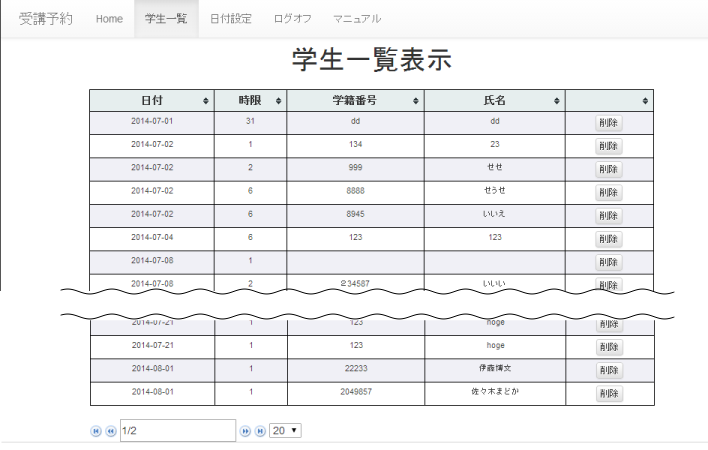
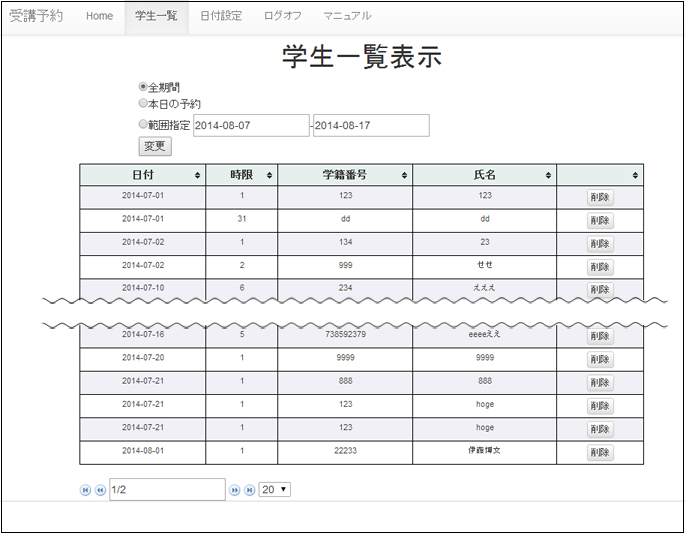
Add the Date Range manyuale.

Changed region(s): [[0.0, 0.1556, 1.0, 1.0], [0.0, 0.0, 1.0, 0.1556]]

diff --git a/docs/admin/_build/html/searchindex.js b/docs/admin/_build/html/searchindex.js
@@ -1,1 +1,1 @@
-Search.setIndex({envversion:42,terms:{"\u4e00\u5ea6\u30af\u30ea\u30c3\u30af\u3059\u308b\u3068":1,"\u306e\u30dc\u30bf\u30f3\u3092\u30af\u30ea\u30c3\u30af\u3059\u308b\u3053\u3068\u3067\u767b\u9332\u3055\u308c\u3066\u3044\u308b\u4e88\u7d04\u3092\u524a\u9664\u3059\u308b\u3053\u3068\u304c\u3067\u304d\u307e\u3059":1,modul:0,admin_01:[],admin_02:[],"\u3092\u30af\u30ea\u30c3\u30af\u3059\u308b\u3053\u3068\u3067":1,"\u4e0b\u4e09\u89d2\u3092\u30af\u30ea\u30c3\u30af\u3059\u308b\u3053\u3068\u3067":1,"\u30ed\u30b0\u30a4\u30f3":1,"\u3068\u3044\u3046\u30e1\u30c3\u30bb\u30fc\u30b8\u304c\u8868\u793a\u3055\u308c\u308b\u3068\u524a\u9664\u304c\u5b8c\u4e86\u3067\u3059":1,index:0,"\u65e5\u4ed8\u8a2d\u5b9a":1,"\u5b66\u751f\u306e\u540d\u524d\u306e\u6a2a\u306b\u3042\u308b":1,content:0,"\u8868\u306e\u4e0b\u306b\u3042\u308b\u30dc\u30bf\u30f3\u3092\u30af\u30ea\u30c3\u30af\u3059\u308b\u3053\u3068\u3067\u30da\u30fc\u30b8\u306e\u79fb\u52d5\u304c\u3067\u304d\u307e\u3059":1,"\u524a\u9664\u78ba\u8a8d":1,"\u5b66\u751f\u4e00\u89a7\u306e\u753b\u9762\u306b\u623b\u308a\u307e\u3059":1,"1\u30da\u30fc\u30b8\u3042\u305f\u308a\u306b\u8868\u793a\u3059\u308b\u4e88\u7d04\u6570\u3092\u5909\u66f4\u3059\u308b\u3053\u3068\u304c\u3067\u304d\u307e\u3059":[],"\u524a\u9664":1,"\u3092\u5165\u308c\u66ff\u3048\u308b\u3053\u3068\u304c\u3067\u304d\u307e\u3059":1,"\u4e88\u7d04\u524a\u9664":1,admin_day_03:[],"\u305d\u306e\u305d\u306e\u9805\u76ee\u306e\u30c7\u30fc\u30bf\u3067\u4e26\u3073\u63db\u3048\u3059\u308b\u3053\u3068\u304c\u3067\u304d\u307e\u3059":1,"\u304c\u4ed8\u3044\u3066\u3044\u308b\u65e5\u306f\u53d7\u8b1b\u751f\u306e\u4e88\u7d04\u4e0d\u53ef\u306b\u306a\u3063\u3066\u3044\u307e\u3059":1,"\u30d1\u30b9\u30ef\u30fc\u30c9\u3092\u5165\u529b\u3057\u3066":1,"\u30dc\u30bf\u30f3\u3092\u30af\u30ea\u30c3\u30af\u3057\u307e\u3059":1,"\u7ba1\u7406\u8005\u306e\u30ed\u30b0\u30a4\u30f3\u540d\u3068":1,"\u5b66\u751f\u4e00\u89a7\u8868\u793a":1,imag:[],admin_day_02:[],search:0,"\u3082\u3046\u4e00\u5ea6\u30af\u30ea\u30c3\u30af\u3059\u308b\u3068\u964d\u9806\u306b\u4e26\u3073\u66ff\u3048\u307e\u3059":1,"\u5b66\u751f\u4e00\u89a7\u8868\u793a\u753b\u9762\u304c\u8868\u793a\u3055\u308c\u307e\u3059":1,"\u6607\u9806":1,"1\u30da\u30fc\u30b8\u3042\u305f\u308a\u306b\u8868\u793a\u3059\u308b\u4e88\u7d04\u6570\u309210\u304b\u308950\u307e\u5909\u66f4\u3059\u308b\u3053\u3068\u304c\u3067\u304d\u307e\u3059":1,"1\u30da\u30fc\u30b8\u3042\u305f\u308a\u306b\u8868\u793a\u3059\u308b\u4e88\u7d04\u657010\u304b\u308950\u307e\u3067\u3092\u5909\u66f4\u3059\u308b\u3053\u3068\u304c\u3067\u304d\u307e\u3059":[],"\u306e\u9805\u76ee\u3092\u5909\u66f4\u3059\u308b\u3053\u3068\u3067":1,"\u4e00\u89a7\u3078\u623b\u308b":1,"\u767b\u9332\u3055\u308c\u3066\u3044\u308b\u5b66\u751f\u306e\u4e88\u7d04\u3092\u30ad\u30e3\u30f3\u30bb\u30eb\u3059\u308b\u3053\u3068\u304c\u3067\u304d\u307e\u3059":1,png:[],"\u306e\u753b\u9762\u306b\u306a\u308a\u307e\u3059":1,"\u7ba1\u7406\u753b\u9762\u3078\u3092\u30af\u30ea\u30c3\u30af\u3059\u308b\u3068\u7ba1\u7406\u8005\u30ed\u30b0\u30a4\u30f3\u306e\u753b\u9762\u304c\u8868\u793a\u3055\u308c\u307e\u3059":1,"\u3092\u30af\u30ea\u30c3\u30af\u3057\u307e\u3059":1,"\u7ba1\u7406\u30ed\u30b0\u30a4\u30f3\u306e\u753b\u9762\u304c\u8868\u793a\u3055\u308c\u308b\u306e\u3067":1,admin_can_01:[],"\u6700\u521d\u306e\u72b6\u614b\u3067\u306f1\u30da\u30fc\u30b8\u3042\u305f\u308a20\u4ef6\u306e\u4e88\u7d04\u304c\u8868\u793a\u3055\u308c\u307e\u3059\u304c":1,"\u304c\u4ed8\u3044\u3066\u3044\u308b\u65e5\u306f\u53d7\u8b1b\u751f\u304c\u4e88\u7d04\u53ef\u80fd\u306b\u306a\u3063\u3066\u3044\u307e\u3059":1,"\u3053\u306e\u753b\u9762\u3067\u73fe\u5728\u306e\u4e88\u7d04\u306e\u4e00\u89a7\u304c\u78ba\u8a8d\u3067\u304d\u307e\u3059":1,"\u30dc\u30bf\u30f3\u3092\u30af\u30ea\u30c3\u30af\u3059\u308b\u3053\u3068\u3067":1,"\u306e\u753b\u9762\u3067":1,"\u305d\u308c\u305e\u308c\u306e\u9805\u76ee\u306e\u53f3\u306b\u3042\u308b\u5c0f\u3055\u306a\u4e0a\u4e09\u89d2":1,"\u30dc\u30bf\u30f3\u3092\u62bc\u3059\u3068":1,"\u524a\u9664\u3055\u308c\u307e\u3057\u305f":1,page:0},objtypes:{},objnames:{},filenames:["index","admin_manual"],titles:["Welcome to YOYAKU administration domcument&#8217;s documentation!","\u7ba1\u7406\u8005\u30de\u30cb\u30e5\u30a2\u30eb"],objects:{},titleterms:{yoyaku:0,"\u5b66\u751f\u306e\u30ad\u30e3\u30f3\u30bb\u30eb":1,document:0,welcom:0,administr:0,"\u30ed\u30b0\u30a4\u30f3\u65b9\u6cd5":1,"\u7ba1\u7406\u8005\u30de\u30cb\u30e5\u30a2\u30eb":1,domcument:0,indic:0,tabl:0,"\u65e5\u4ed8\u306e\u8a2d\u5b9a":1}})
+Search.setIndex({envversion:42,terms:{"\u4e00\u5ea6\u30af\u30ea\u30c3\u30af\u3059\u308b\u3068":1,"\u30dc\u30bf\u30f3\u3092\u30af\u30ea\u30c3\u30af\u3059\u308b\u3068\u672c\u65e5\u306e\u4e88\u7d04\u304c\u8868\u793a\u3055\u308c\u307e\u3059":1,"\u3092\u9078\u629e\u3057\u3066":1,"\u6307\u5b9a\u3055\u308c\u305f\u7bc4\u56f2\u306e\u4e88\u7d04\u3092\u8868\u793a\u3057\u307e\u3059":1,"\u306e\u30dc\u30bf\u30f3\u3092\u30af\u30ea\u30c3\u30af\u3059\u308b\u3053\u3068\u3067\u767b\u9332\u3055\u308c\u3066\u3044\u308b\u4e88\u7d04\u3092\u524a\u9664\u3059\u308b\u3053\u3068\u304c\u3067\u304d\u307e\u3059":1,modul:0,"\u672c\u65e5\u306e\u4e88\u7d04":1,"\u7ba1\u7406\u30ed\u30b0\u30a4\u30f3\u306e\u753b\u9762\u304c\u8868\u793a\u3055\u308c\u308b\u306e\u3067":1,"\u5b66\u751f\u306e\u540d\u524d\u306e\u6a2a\u306b\u3042\u308b":1,admin_01:[],admin_02:[],"\u3092\u30af\u30ea\u30c3\u30af\u3059\u308b\u3053\u3068\u3067":1,"\u4e0b\u4e09\u89d2\u3092\u30af\u30ea\u30c3\u30af\u3059\u308b\u3053\u3068\u3067":1,"4\u6841\u306e\u5e74":1,"\u306e\u4e88\u7d04\u304c\u8868\u793a\u3055\u308c\u307e\u3059":1,"\u30dc\u30bf\u30f3\u3092\u62bc\u3059\u3068":1,"2\u6841\u306e\u65e5":1,index:0,"\u3068\u3044\u3046\u30e1\u30c3\u30bb\u30fc\u30b8\u304c\u8868\u793a\u3055\u308c\u308b\u3068\u524a\u9664\u304c\u5b8c\u4e86\u3067\u3059":1,"\u5b66\u751f\u4e00\u89a7\u8868\u793a":1,"\u3068\u5165\u529b\u3057\u3066\u304f\u3060\u3055\u3044":1,"\u5909\u66f4":1,content:0,"\u8868\u306e\u4e0b\u306b\u3042\u308b\u30dc\u30bf\u30f3\u3092\u30af\u30ea\u30c3\u30af\u3059\u308b\u3053\u3068\u3067\u30da\u30fc\u30b8\u306e\u79fb\u52d5\u304c\u3067\u304d\u307e\u3059":1,"\u8868\u793a\u3059\u308b\u7bc4\u56f2\u306e\u65e5\u4ed8\u3092\u5165\u529b\u3059\u308b\u3053\u3068\u3067":1,"\u5b66\u751f\u4e00\u89a7\u306e\u753b\u9762\u306b\u623b\u308a\u307e\u3059":1,"1\u30da\u30fc\u30b8\u3042\u305f\u308a\u306b\u8868\u793a\u3059\u308b\u4e88\u7d04\u6570\u3092\u5909\u66f4\u3059\u308b\u3053\u3068\u304c\u3067\u304d\u307e\u3059":[],"\u524a\u9664":1,"\u3092\u5165\u308c\u66ff\u3048\u308b\u3053\u3068\u304c\u3067\u304d\u307e\u3059":1,"\u4e88\u7d04\u524a\u9664":1,imag:[],"\u305d\u306e\u305d\u306e\u9805\u76ee\u306e\u30c7\u30fc\u30bf\u3067\u4e26\u3073\u63db\u3048\u3059\u308b\u3053\u3068\u304c\u3067\u304d\u307e\u3059":1,"\u524a\u9664\u78ba\u8a8d":1,"\u304c\u4ed8\u3044\u3066\u3044\u308b\u65e5\u306f\u53d7\u8b1b\u751f\u306e\u4e88\u7d04\u4e0d\u53ef\u306b\u306a\u3063\u3066\u3044\u307e\u3059":1,"\u30d1\u30b9\u30ef\u30fc\u30c9\u3092\u5165\u529b\u3057\u3066":1,"\u30dc\u30bf\u30f3\u3092\u30af\u30ea\u30c3\u30af\u3057\u307e\u3059":1,"\u7ba1\u7406\u8005\u306e\u30ed\u30b0\u30a4\u30f3\u540d\u3068":1,"\u65e5\u4ed8\u8a2d\u5b9a":1,admin_day_03:[],admin_day_02:[],"2\u6841\u306e\u6708":1,"\u5b66\u751f\u4e00\u89a7\u8868\u793a\u753b\u9762\u304c\u8868\u793a\u3055\u308c\u307e\u3059":1,"\u6607\u9806":1,"1\u30da\u30fc\u30b8\u3042\u305f\u308a\u306b\u8868\u793a\u3059\u308b\u4e88\u7d04\u6570\u309210\u304b\u308950\u307e\u5909\u66f4\u3059\u308b\u3053\u3068\u304c\u3067\u304d\u307e\u3059":1,"1\u30da\u30fc\u30b8\u3042\u305f\u308a\u306b\u8868\u793a\u3059\u308b\u4e88\u7d04\u657010\u304b\u308950\u307e\u3067\u3092\u5909\u66f4\u3059\u308b\u3053\u3068\u304c\u3067\u304d\u307e\u3059":[],"\u306e\u9805\u76ee\u3092\u5909\u66f4\u3059\u308b\u3053\u3068\u3067":1,"\u4e00\u89a7\u3078\u623b\u308b":1,"\u767b\u9332\u3055\u308c\u3066\u3044\u308b\u5b66\u751f\u306e\u4e88\u7d04\u3092\u30ad\u30e3\u30f3\u30bb\u30eb\u3059\u308b\u3053\u3068\u304c\u3067\u304d\u307e\u3059":1,png:[],"\u306e\u753b\u9762\u306b\u306a\u308a\u307e\u3059":1,"\u7ba1\u7406\u753b\u9762\u3078\u3092\u30af\u30ea\u30c3\u30af\u3059\u308b\u3068\u7ba1\u7406\u8005\u30ed\u30b0\u30a4\u30f3\u306e\u753b\u9762\u304c\u8868\u793a\u3055\u308c\u307e\u3059":1,"\u3092\u30af\u30ea\u30c3\u30af\u3057\u307e\u3059":1,search:0,admin_can_01:[],"\u6700\u521d\u306e\u72b6\u614b\u3067\u306f1\u30da\u30fc\u30b8\u3042\u305f\u308a20\u4ef6\u306e\u4e88\u7d04\u304c\u8868\u793a\u3055\u308c\u307e\u3059\u304c":1,"\u7bc4\u56f2\u3092\u6307\u5b9a\u3059\u308b\u65e5\u4ed8\u306f":1,"\u3059\u308b\u5834\u5408\u306f\u65e5\u4ed8\u306f\u4e21\u65b9\u306b\u5165\u529b\u3057\u3066\u304f\u3060\u3055\u3044":1,"\u7bc4\u56f2\u6307\u5b9a":1,"\u304c\u4ed8\u3044\u3066\u3044\u308b\u65e5\u306f\u53d7\u8b1b\u751f\u304c\u4e88\u7d04\u53ef\u80fd\u306b\u306a\u3063\u3066\u3044\u307e\u3059":1,"\u3053\u306e\u753b\u9762\u3067\u73fe\u5728\u306e\u4e88\u7d04\u306e\u4e00\u89a7\u304c\u78ba\u8a8d\u3067\u304d\u307e\u3059":1,"\u30dc\u30bf\u30f3\u3092\u30af\u30ea\u30c3\u30af\u3059\u308b\u3053\u3068\u3067":1,"\u3082\u3046\u4e00\u5ea6\u30af\u30ea\u30c3\u30af\u3059\u308b\u3068\u964d\u9806\u306b\u4e26\u3073\u66ff\u3048\u307e\u3059":1,"\u5168\u671f\u9593":1,"\u305d\u308c\u305e\u308c\u306e\u9805\u76ee\u306e\u53f3\u306b\u3042\u308b\u5c0f\u3055\u306a\u4e0a\u4e09\u89d2":1,"\u30ed\u30b0\u30a4\u30f3":1,"\u306e\u753b\u9762\u3067":1,"\u6700\u521d\u306f":1,"\u524a\u9664\u3055\u308c\u307e\u3057\u305f":1,page:0},objtypes:{},objnames:{},filenames:["index","admin_manual"],titles:["Welcome to YOYAKU administration domcument&#8217;s documentation!","\u7ba1\u7406\u8005\u30de\u30cb\u30e5\u30a2\u30eb"],objects:{},titleterms:{yoyaku:0,"\u5b66\u751f\u306e\u30ad\u30e3\u30f3\u30bb\u30eb":1,"\u65e5\u4ed8\u306e\u8a2d\u5b9a":1,welcom:0,administr:0,"\u30ed\u30b0\u30a4\u30f3\u65b9\u6cd5":1,"\u7ba1\u7406\u8005\u30de\u30cb\u30e5\u30a2\u30eb":1,domcument:0,indic:0,tabl:0,document:0}})

diff --git a/docs/admin/_build/html/admin_manual.html b/docs/admin/_build/html/admin_manual.html
@@ -59,6 +59,11 @@
 <p>一度クリックすると、昇順、もう一度クリックすると降順に並び替えます。</p>
 <p>表の下にあるボタンをクリックすることでページの移動ができます。</p>
 <p>最初の状態では1ページあたり20件の予約が表示されますが、「20」の項目を変更することで、1ページあたりに表示する予約数を10から50ま変更することができます。</p>
+<img alt="_images/admin_04.png" src="_images/admin_04.png" />
+<p>最初は[全期間]の予約が表示されます。</p>
+<p>[本日の予約]を選択して、[変更]ボタンをクリックすると本日の予約が表示されます。</p>
+<p>[範囲指定]を選択して、表示する範囲の日付を入力することで、指定された範囲の予約を表示します。 範囲を指定する日付は[(4桁の年)-(2桁の月)-(2桁の日)]と入力してください。</p>
+<p>[範囲指定]する場合は日付は両方に入力してください。</p>
 </div>
 <div class="section" id="id3">
 <h1>日付の設定<a class="headerlink" href="#id3" title="Permalink to this headline">¶</a></h1>

diff --git a/docs/admin/admin_manual.rst b/docs/admin/admin_manual.rst
@@ -33,6 +33,21 @@
 最初の状態では1ページあたり20件の予約が表示されますが、「20」の項目を変更することで、1ページあたりに表示する予約数を10から50ま変更することができます。
 
 
+.. image:: image/admin_04.png
+
+最初は[全期間]の予約が表示されます。 
+
+
+[本日の予約]を選択して、[変更]ボタンをクリックすると本日の予約が表示されます。
+
+
+[範囲指定]を選択して、表示する範囲の日付を入力することで、指定された範囲の予約を表示します。 範囲を指定する日付は[(4桁の年)-(2桁の月)-(2桁の日)]と入力してください。
+
+
+[範囲指定]する場合は日付は両方に入力してください。
+
+
+
 
 
 日付の設定
